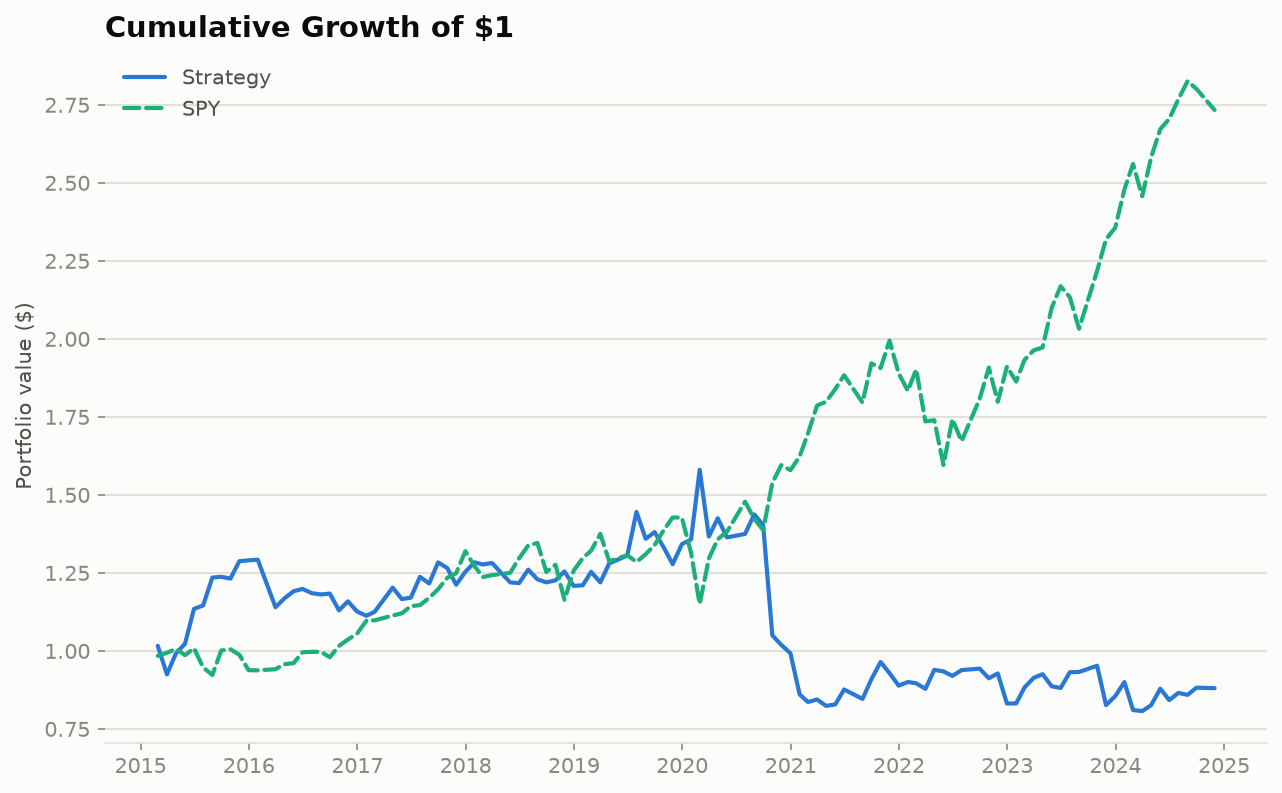
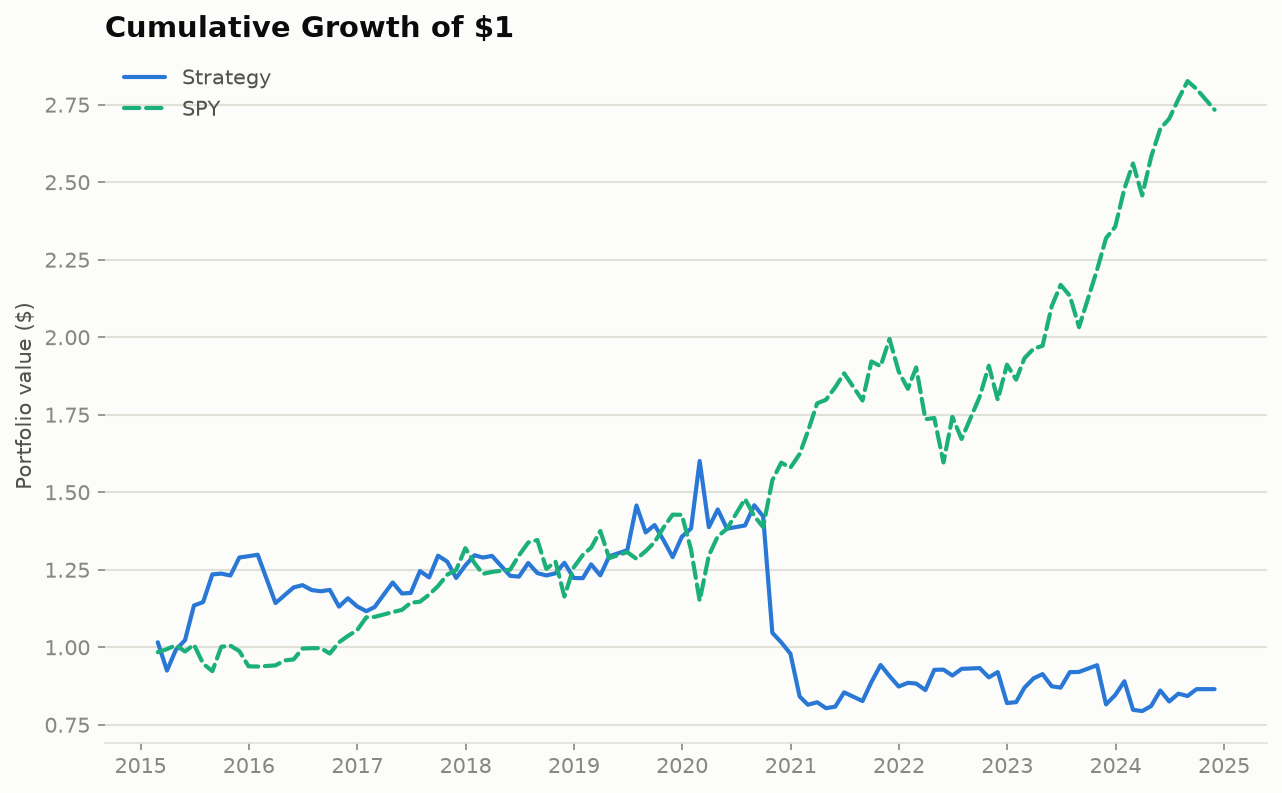
Only form portfolios from names that traded on the rebalance date
Weights were assigned to any name with a valid factor score. Quality
comes from forward-filled fundamentals and momentum from prices up to
the prior month, so a delisted name kept scoring after it stopped
trading, and could be held in a month it never traded: 50 position-
months in the published run, booked at a flat 0% (25 of them with the
"no exit price" warning, 25 silently at a stale price).

A name is now tradable on a rebalance date only if it has a price on
that month's last trading day, and untradable names are dropped before
decile formation, the same way index membership is. The check is
entry-only: requiring a price at the next rebalance too would drop
exactly the names that go on to delist, which isn't knowable at the
rebalance date. A name that stops trading while held still exits at its
last traded price; 4 position-months never trade again after entry and
are booked at 0%, since the actual delisting payout isn't in the data.

Walk-forward out-of-sample, before -> after:
  annualized return  -1.39% -> -1.59%
  Sharpe              0.02  ->  0.02
  max drawdown      -48.92% -> -50.38%
  deflated Sharpe     0.529 ->  0.521
  avg turnover       39.03% -> 39.13%

Adds tests for a name with no entry price, a name with no exit price,
and a name that delists mid-holding-period; the first and last fail
with the old ranking logic. README results, caveats and to-do list,
VERIFYING step 2 and outputs/equity_curve_oos.png are updated from a
fresh run.

diff --git a/tests/test_backtest.py b/tests/test_backtest.py
@@ -7,7 +7,7 @@ import pytest
 
 from src.backtest.costs import apply_costs
 from src.backtest.engine import run_backtest
-from src.backtest.portfolio import decile_portfolios
+from src.backtest.portfolio import decile_portfolios, tradable_on_rebalance
 
 DATES = pd.date_range("2020-01-31", periods=3, freq="ME")
 TICKERS = [f"T{i}" for i in range(10)]  # 10 names -> clean top/bottom decile of 1 each
@@ -138,3 +138,72 @@ def test_run_backtest_mixes_exit_priced_and_normal_positions_correctly():
 
     # A exits at its last available price (45 vs entry 50); B earns its real 5% forward return.
     assert net.loc[dates[0]] == pytest.approx((45.0 / 50.0 - 1.0) + 0.05)
+
+
+# --- Tradability: only names with a price on the rebalance date can be held ---
+
+DAYS = pd.bdate_range("2020-01-01", "2020-03-31")  # DATES are this range's three month-ends
+
+
+def _flat_daily_prices(names):
+    return pd.DataFrame(100.0, index=DAYS, columns=names)
+
+
+def test_tradable_on_rebalance_requires_a_price_on_the_months_last_trading_day():
+    daily = _flat_daily_prices(["LIVE", "STALE", "NONE"])
+    daily.loc["2020-01-29":"2020-01-31", "STALE"] = np.nan  # last January trade 3 days before month-end
+    daily.loc["2020-01-01":"2020-01-31", "NONE"] = np.nan   # never traded in January
+
+    tradable = tradable_on_rebalance(daily, pd.DatetimeIndex(["2020-01-31", "2020-04-30"]))
+
+    assert tradable.loc["2020-01-31"].to_dict() == {"LIVE": True, "STALE": False, "NONE": False}
+    assert not tradable.loc["2020-04-30"].any()  # no price data in that month at all
+
+
+def test_name_with_no_entry_price_gets_no_weight_even_with_the_best_score():
+    names = TICKERS + ["X"]
+    daily = _flat_daily_prices(names)
+    daily["X"] = np.nan  # delisted before January: nothing to buy it at on the rebalance date
+    scores = pd.DataFrame([list(range(10)) + [99.0]], index=[DATES[0]], columns=names)  # X scores best
+
+    weights = decile_portfolios(scores, n_deciles=10, long_short=True, tradable=tradable_on_rebalance(daily, scores.index))
+    row = weights.loc[DATES[0]]
+
+    assert row["X"] == 0.0
+    # Deciles are formed from the 10 tradable names only, so T9 is the whole long leg.
+    assert row["T9"] == pytest.approx(1.0)
+    assert row["T0"] == pytest.approx(-1.0)
+
+
+def test_name_with_no_exit_price_exits_at_last_traded_price_without_warning():
+    daily = _flat_daily_prices(["GONE"])
+    daily.loc["2020-02-01":, "GONE"] = np.nan  # traded on the January rebalance date, never again
+    monthly = daily.resample("ME").last()
+    forward_returns = monthly.pct_change(fill_method=None).shift(-1)
+    weights = pd.DataFrame({"GONE": [1.0, 0.0]}, index=DATES[:2])
+
+    with warnings.catch_warnings():
+        warnings.simplefilter("error")  # there IS a last traded price to exit at -> no warning
+        net = run_backtest(weights, forward_returns, cost_bps=0, prices=monthly)
+
+    # Last traded price == entry price: 0%. The actual delisting payout isn't in the data.
+    assert net.loc[DATES[0]] == pytest.approx(0.0)
+
+
+def test_name_that_delists_mid_holding_period_exits_at_last_trade_and_is_not_held_again():
+    names = TICKERS + ["MID"]
+    daily = _flat_daily_prices(names)
+    daily.loc["2020-02-01":"2020-02-14", "MID"] = 80.0  # falls 20%, then stops trading mid-February
+    daily.loc["2020-02-15":, "MID"] = np.nan
+    # MID has the best score on both rebalance dates (e.g. forward-filled fundamentals keep it scoring).
+    scores = pd.DataFrame([list(range(10)) + [99.0]] * 2, index=DATES[:2], columns=names)
+
+    weights = decile_portfolios(scores, n_deciles=10, long_short=True, tradable=tradable_on_rebalance(daily, scores.index))
+    monthly = daily.resample("ME").last()
+    forward_returns = monthly.pct_change(fill_method=None).shift(-1)
+
+    assert weights.loc[DATES[0], "MID"] > 0          # traded on January's rebalance date: held
+    assert forward_returns.loc[DATES[0], "MID"] == pytest.approx(80.0 / 100.0 - 1.0)  # exit at last trade
+    assert weights.loc[DATES[1], "MID"] == 0.0       # no price on February's rebalance date: not held
+    assert weights.loc[DATES[1], "T9"] == pytest.approx(1.0)
+

diff --git a/src/backtest/portfolio.py b/src/backtest/portfolio.py
@@ -2,7 +2,40 @@
 import pandas as pd
 
 
-def decile_portfolios(scores: pd.DataFrame, n_deciles: int = 10, long_short: bool = True) -> pd.DataFrame:
+def tradable_on_rebalance(daily_prices: pd.DataFrame, rebalance_dates: pd.Index) -> pd.DataFrame:
+    """Which tickers could actually be traded on each rebalance date.
+
+    `daily_prices` is a wide (date x ticker) panel of daily prices. A ticker
+    is tradable for a month-end rebalance date if it has a price on that
+    month's last trading day (the last date in `daily_prices` falling in the
+    month) — that close is the entry price the backtest uses. A name that
+    stopped trading earlier in the month, or never traded in it, is not
+    tradable even if it still has a factor score: quality comes from
+    forward-filled fundamentals and momentum from prices up to the prior
+    month, so a delisted name can keep scoring after it's gone.
+
+    Deliberately entry-only: requiring a price at the NEXT rebalance date
+    too would drop exactly the names that go on to delist during the
+    holding period, which isn't knowable at the rebalance date (look-ahead).
+
+    Returns a boolean (rebalance date x ticker) frame; a rebalance date with
+    no price data in its month is all-False.
+    """
+    months = daily_prices.index.to_period("M")
+    # groupby().last() on a boolean frame is simply the value on each month's last trading day.
+    priced_on_last_day = daily_prices.notna().groupby(months).last()
+    rebalance_dates = pd.DatetimeIndex(rebalance_dates)
+    tradable = priced_on_last_day.reindex(rebalance_dates.to_period("M"), fill_value=False)
+    tradable.index = rebalance_dates
+    return tradable.astype(bool)
+
+
+def decile_portfolios(
+    scores: pd.DataFrame,
+    n_deciles: int = 10,
+    long_short: bool = True,
+    tradable: pd.DataFrame | None = None,
+) -> pd.DataFrame:
     """Turn a wide (date x ticker) score panel into target portfolio weights.
 
     Each rebalance date, tickers are ranked into `n_deciles` equal-sized
@@ -12,10 +45,20 @@ def decile_portfolios(scores: pd.DataFrame, n_deciles: int = 10, long_short: boo
     the standard long-short decile-spread construction). If `long_short` is
     False, only the long leg is built.
 
+    If `tradable` (a boolean date x ticker frame, e.g. from
+    `tradable_on_rebalance`) is given, names that aren't tradable on a date
+    are dropped BEFORE ranking, so decile boundaries are formed only from
+    names that could actually be bought or sold then. Cells missing from
+    `tradable` count as not tradable.
+
     Dates with fewer than `n_deciles` non-NaN scores (not enough names to
     form deciles yet — e.g. before any factor has enough history) get an
     all-zero weight row rather than raising.
     """
+    if tradable is not None:
+        tradable = tradable.reindex(index=scores.index, columns=scores.columns, fill_value=False).astype(bool)
+        scores = scores.where(tradable)
+
     weights = pd.DataFrame(0.0, index=scores.index, columns=scores.columns)
 
     for dt, row in scores.iterrows():

diff --git a/scripts/run_backtest.py b/scripts/run_backtest.py
@@ -22,7 +22,7 @@ from src.analytics.metrics import (
 )
 from src.analytics.plots import plot_equity_curve
 from src.backtest.engine import run_backtest
-from src.backtest.portfolio import decile_portfolios
+from src.backtest.portfolio import decile_portfolios, tradable_on_rebalance
 from src.backtest.validation import walk_forward_backtest
 from src.data.loader import load_fundamentals, load_prices
 from src.data.universe import build_universe
@@ -91,13 +91,23 @@ def main():
     monthly_membership = monthly_membership.reindex(columns=composite.columns, fill_value=False)
     composite = composite.where(monthly_membership)
 
-    weights = decile_portfolios(composite, n_deciles=port_cfg["n_deciles"], long_short=port_cfg["long_short"])
+    # Only names with a price on the rebalance date can be bought or sold then;
+    # a delisted name can otherwise keep a score (and a weight) after it's gone.
+    daily_prices = prices.pivot(index="date", columns="ticker", values="adj_close")
+    tradable = tradable_on_rebalance(daily_prices, composite.index)
+    tradable = tradable.reindex(columns=composite.columns, fill_value=False)
+    n_untradable = int((composite.notna() & ~tradable).to_numpy().sum())
+    print(f"Tradability filter: dropped {n_untradable} scored name-months with no price on the rebalance date")
+
+    weights = decile_portfolios(
+        composite, n_deciles=port_cfg["n_deciles"], long_short=port_cfg["long_short"], tradable=tradable
+    )
 
     # Forward monthly returns: the return earned FROM each rebalance date TO
     # the next one, so weights decided at t never see the return that produced them.
     # fill_method=None: pandas 2.x forward-fills gaps by default, which would turn a
     # delisted name's missing return into a silent 0% before the engine sees it.
-    monthly_prices = prices.pivot(index="date", columns="ticker", values="adj_close").resample("ME").last()
+    monthly_prices = daily_prices.resample("ME").last()
     forward_returns = monthly_prices.pct_change(fill_method=None).shift(-1)
     # The final rebalance date has no realized forward return yet (data just
     # ends) — drop it rather than let the engine score it as a 0% period,

diff --git a/src/backtest/engine.py b/src/backtest/engine.py
@@ -35,9 +35,18 @@ def run_backtest(
     in `prices` — i.e. "sell at the last price we ever saw" rather than
     "assume nothing happened."
 
+    A name that stops trading partway through the holding month needs no
+    special handling: its month-end price is its last trade, so its forward
+    return is already "exit at the last traded price." If it never trades
+    again after `t`, the exit price above is its price at `t`, i.e. 0% —
+    what the actual delisting paid out (a merger premium, a bankruptcy
+    loss) isn't in the price data.
+
     Documented limitation: if `prices` isn't supplied, or a ticker has no
     recorded price at all to exit at, that cell still falls back to a 0%
-    assumption with a warning. There is nothing to exit at in that case, and
+    assumption with a warning. Weights built with a tradability mask (see
+    `portfolio.tradable_on_rebalance`) never hold a name without a price at
+    `t`, so in the main pipeline this only fires if the mask is skipped. There is nothing to exit at in that case, and
     the true delisting outcome (a merger payout, a bankruptcy wipeout, or
     anything between) is genuinely unknown from price data alone — this is
     not modeled, and the warning is how that limitation stays visible

diff --git a/README.md b/README.md
@@ -22,7 +22,8 @@ which turns out to be the hard part of backtesting.
 - Computes three factors per stock, per month: 12-1 momentum, earnings yield (value),
   and ROE (quality); standardizes each date's cross-section and blends them.
 - Goes long the top decile, short the bottom decile, rebalances monthly, and charges
-  8 bps per trade based on turnover.
+  8 bps per trade based on turnover. Only names that actually traded on the rebalance
+  date are ranked, so a delisted company can't be bought or held after it's gone.
 - Reports the honest version of performance: out-of-sample Sharpe from a walk-forward
   test, a deflated Sharpe that accounts for how many configurations I tried, plus
   drawdown, turnover, and factor coverage.
@@ -35,15 +36,20 @@ that matters; the in-sample column is shown only for reference.
 
 | Metric | Out-of-sample (headline) | In-sample (reference) |
 |---|---|---|
-| Annualized return | −1.4% | 0.05% |
-| Annualized volatility | 18.9% | 16.5% |
-| Sharpe ratio | 0.02 | 0.09 |
-| Deflated Sharpe (probability) | 0.53 | 0.63 |
-| Max drawdown | −48.9% | −44.5% |
-| Avg monthly turnover | 39.0% | 38.9% |
-| Hit rate | 56.0% | 54.2% |
+| Annualized return | −1.6% | −0.1% |
+| Annualized volatility | 19.3% | 16.7% |
+| Sharpe ratio | 0.02 | 0.08 |
+| Deflated Sharpe (probability) | 0.52 | 0.62 |
+| Max drawdown | −50.4% | −46.4% |
+| Avg monthly turnover | 39.1% | 38.9% |
+| Hit rate | 56.0% | 54.8% |
 
 Mean factor coverage across rebalance dates: composite score 91%, value-and-quality 71%.
+
+These numbers are after a correctness fix: earlier versions could hold a delisted name in
+a month it never traded (50 position-months, booked at a flat 0%). Excluding untradable
+names moved the out-of-sample return from −1.4% to −1.6% and max drawdown from −48.9% to
+−50.4%; the Sharpe stayed at 0.02.
 
 ![Out-of-sample equity curve vs SPY](outputs/equity_curve_oos.png)
 
@@ -52,7 +58,7 @@ Mean factor coverage across rebalance dates: composite score 91%, value-and-qual
 The honest answer: **a naive momentum/value/quality long–short does not generate
 meaningful risk-adjusted returns in large-cap US equities once you account for realistic
 costs.** Out of sample the Sharpe is essentially zero (0.02) and the return is slightly
-negative, with a deep drawdown. Even in-sample it's weak (0.09). The deflated Sharpe —
+negative, with a deep drawdown. Even in-sample it's weak (0.08). The deflated Sharpe —
 which asks whether a result could just be luck given how many variants you tried — sits
 around 0.5, basically a coin flip, so there's no evidence of a real edge here.
 
@@ -72,7 +78,7 @@ src/
   backtest/   portfolio construction, cost model, engine, walk-forward
   analytics/  performance metrics, coverage report, equity-curve chart
 scripts/run_backtest.py   the entry point that wires it all together
-tests/        65 tests, network-mocked
+tests/        69 tests, network-mocked
 config.yaml   every knob (universe, dates, costs, factors, validation)
 ```
 
@@ -111,9 +117,12 @@ Add `-e TIINGO_KEY` to pass through a Tiingo key if you have one.
 - **Value coverage is ~71%.** Fundamentals are missing for some renamed/delisted tickers,
   and a few multi-share-class names (e.g. Visa) tag EPS in a custom way SEC's API doesn't
   expose. Momentum/quality coverage is higher (~91% composite).
-- **~25 delisted positions had no exit price** and were treated as a flat 0% for that
-  period. That understates the true outcome (a bankruptcy wipeout is a real loss); the
-  price data alone can't tell me which delistings were mergers vs. failures.
+- **Delisting payouts aren't modeled.** A name that stops trading while held is exited at
+  its last traded price (37 position-months); 4 of those never traded again after entry, so
+  they're booked at 0%. What shareholders actually received — a takeover premium or a
+  bankruptcy loss — isn't in free price data (it needs something like CRSP delisting
+  returns), so the direction of this bias is unclear, but it touches very few of the
+  ~15,900 position-months.
 - **Costs are a flat 8 bps per trade** — a reasonable stand-in, not the truth; real costs
   vary by name and size.
 - **The "embargo" in the walk-forward is a settling gap, not an ML-style leakage guard,**
@@ -128,9 +137,9 @@ Add `-e TIINGO_KEY` to pass through a Tiingo key if you have one.
 python -m pytest tests/
 ```
 
-65 tests, all network-mocked except one opt-in live SEC integration check. They cover the
+69 tests, all network-mocked except one opt-in live SEC integration check. They cover the
 easy-to-get-wrong stuff: momentum's skip-month, the point-in-time fundamentals lag, the
-delisted-name universe, turnover cost math, the yfinance→Tiingo fallback, and — the one I
+delisted-name universe, never holding a name on a date it didn't trade, turnover cost math, the yfinance→Tiingo fallback, and — the one I
 care about most — a test proving the engine trades on *forward* returns, never
 contemporaneous ones.
 
@@ -139,7 +148,5 @@ For a step-by-step walkthrough of checking the tests and the real pipeline yours
 
 ## Still to do
 
-- Fold weights on "has a current price," not just "has a valid factor score," so a
-  delisted name can't be held on a month it never traded.
 - A per-name cost model instead of a flat rate.
 - A couple more factors (low-vol, size) to see how the mix changes.

diff --git a/VERIFYING.md b/VERIFYING.md
@@ -28,7 +28,7 @@ keyless). Skip straight to step 1.
 python -m pytest tests/ -v
 ```
 
-What you're checking: all 65 tests pass. This proves the individual pieces — the momentum
+What you're checking: all 69 tests pass. This proves the individual pieces — the momentum
 formula, the point-in-time lag on fundamentals, the cost model, the walk-forward fold
 logic, the delisting-exit handling, and so on — behave correctly in isolation, using
 synthetic data. It does **not** by itself prove real market data flows through cleanly;
@@ -57,10 +57,11 @@ This is the actual "does it work" test. What happens, in order, and what to watc
   scroll by for names that are delisted or have gaps in fundamentals coverage — that's
   expected, not a failure.
 - **Factor computation + backtest**: fast, all local computation once data is loaded.
-- **Console output**: a full-period ("in-sample, reference only") summary table, a
-  coverage report (composite / value-and-quality coverage per date), a list of the
+- **Console output**: a line saying how many scored name-months the tradability filter
+  dropped (names with no price on the rebalance date), a full-period ("in-sample,
+  reference only") summary table, a coverage report (composite / value-and-quality coverage per date), a list of the
   walk-forward fold boundaries, and the out-of-sample ("headline") summary table —
-  this is where the numbers in this README's Results table come from.
+  this is where the numbers in the README's Results table come from.
 - **Files written to `outputs/`**: `net_returns.csv`, `oos_net_returns.csv`,
   `coverage_report.csv`, `equity_curve.png`, `equity_curve_oos.png`.
 
@@ -68,13 +69,14 @@ This is the actual "does it work" test. What happens, in order, and what to watc
 
 - `outputs/equity_curve_oos.png` exists and opens — it should show two lines (strategy vs.
   SPY) starting at $1 and diverging over time.
-- The printed "Walk-forward OUT-OF-SAMPLE summary" numbers roughly match the Results table
-  above (they won't be bit-for-bit identical if your data cache differs slightly, e.g. a
-  ticker that's delisted since I last ran this, but they should be in the same
-  ballpark — Sharpe near 0, not suddenly 2.0).
+- The printed "Walk-forward OUT-OF-SAMPLE summary" numbers roughly match the README's
+  Results table: Sharpe 0.02, annualized return about −1.6%, max drawdown about −50.4%,
+  deflated Sharpe about 0.52, turnover about 39%. They won't be bit-for-bit identical if
+  your data cache differs slightly (e.g. a ticker that's delisted since I last ran this),
+  but they should be in the same ballpark — Sharpe near 0, not suddenly 2.0.
 - `outputs/coverage_report.csv` — spot check that `composite_coverage` is high (~90%) and
-  `value_quality_coverage` is meaningfully lower (~70%), matching the caveat above about
-  fundamentals gaps.
+  `value_quality_coverage` is meaningfully lower (~70%), matching the README's caveat
+  about fundamentals gaps.
 
 ## 3. Confirm the caching actually works
 
